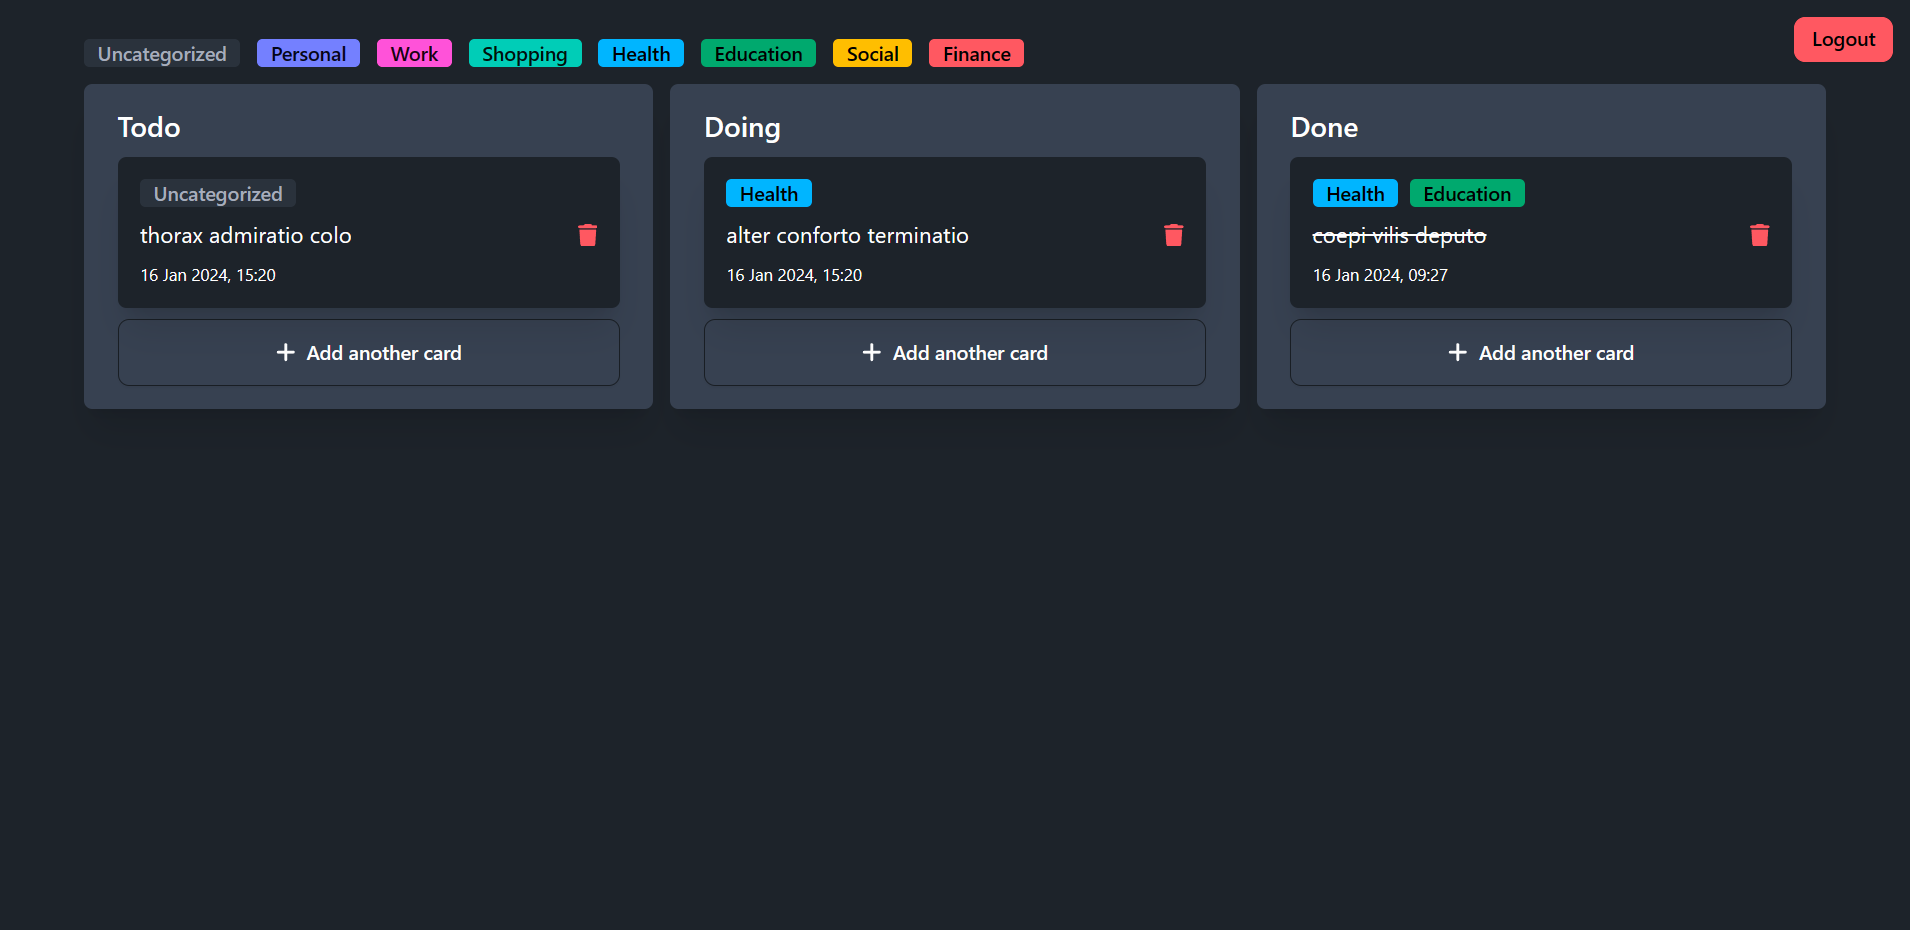
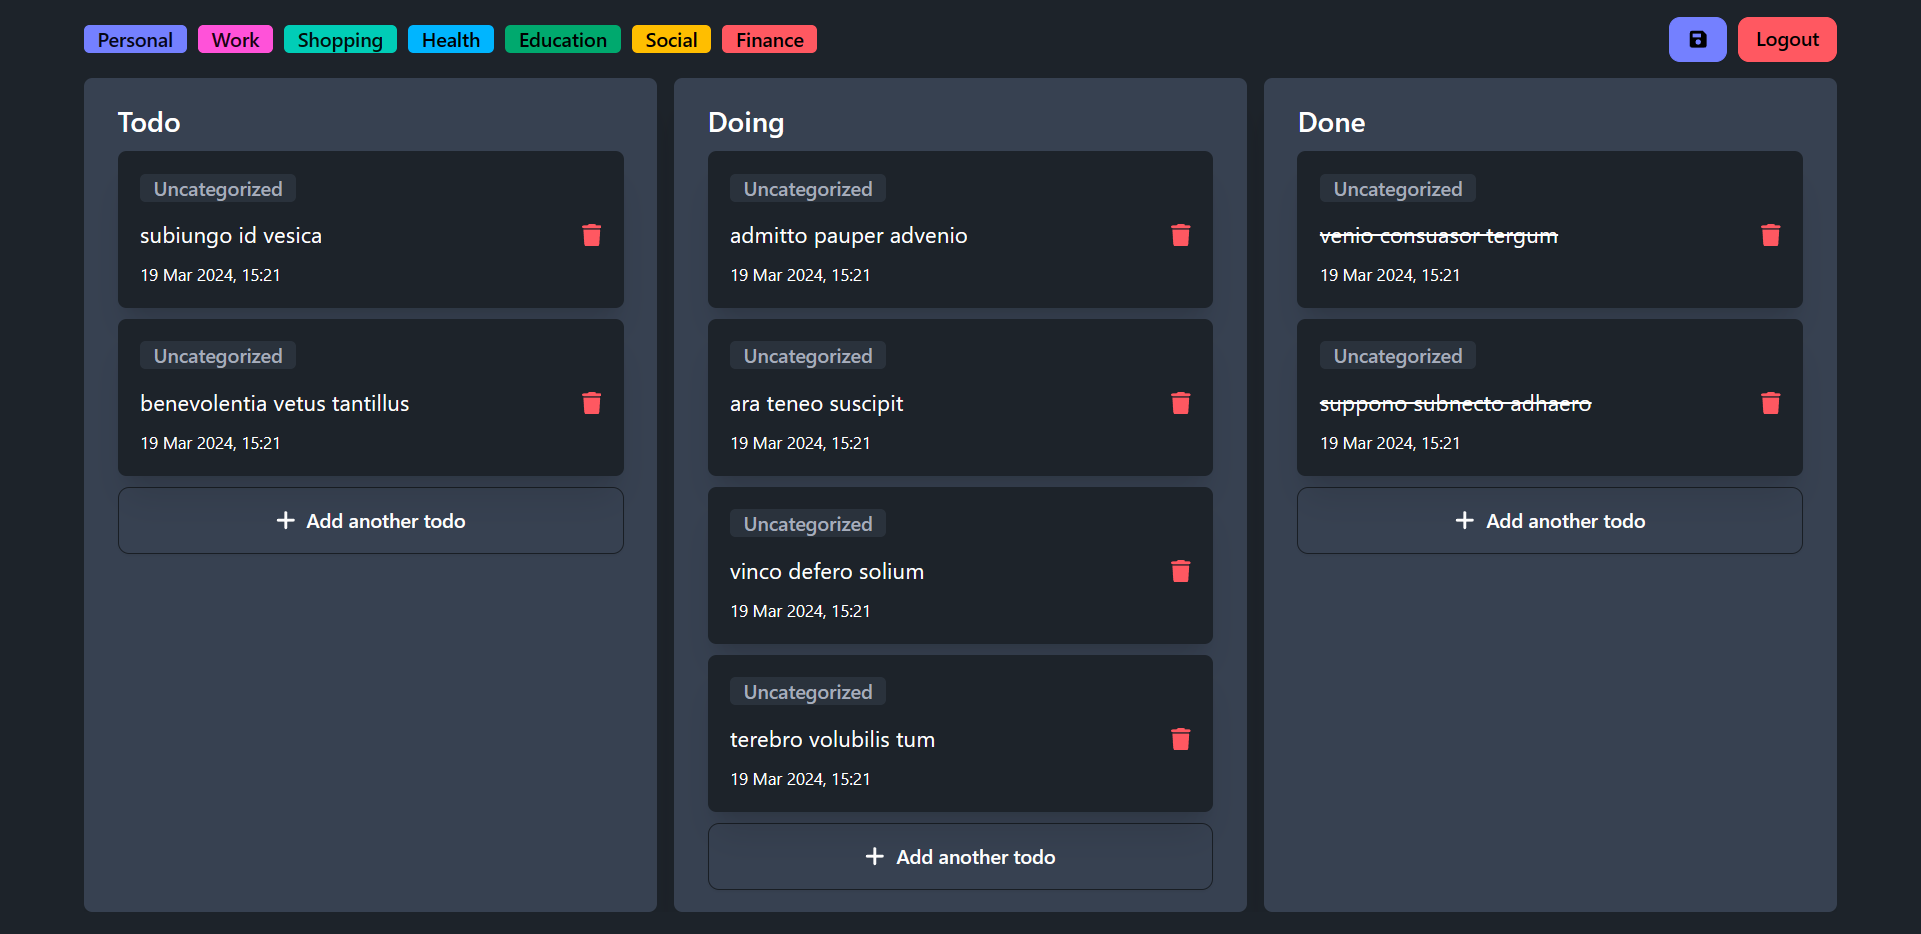
update "Fullstack Todo List" preview

diff --git a/pages/project.jsx b/pages/project.jsx
@@ -40,7 +40,7 @@ export default function Project() {
       title: "Fullstack Todo List",
       url: "/images/image11.png",
       repo: "https://github.com/akhsanby/full-stack-todolist",
-      description: "The challenge learning project is to create a Todo List website connected to a MySQL database. The tech stack used is NextJS, Tailwind CSS, ExpressJS, and MySQL.",
+      description: "The challenge learning project is to create a Todo List with drag-drop feature connected to a MySQL database. The tech stack used is NextJS, Tailwind CSS, ExpressJS, and MySQL.",
     },
     {
       title: "Personal Web",
